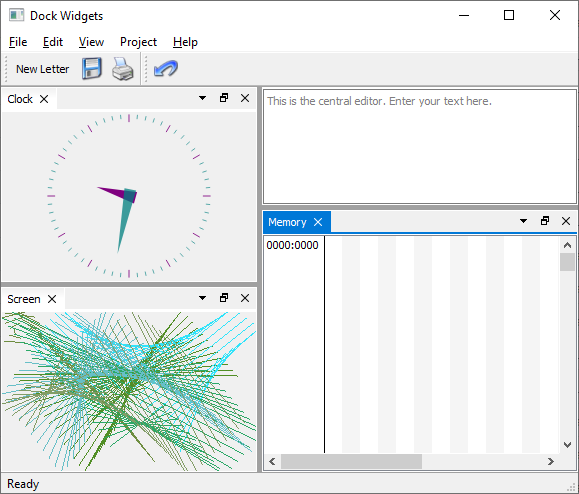
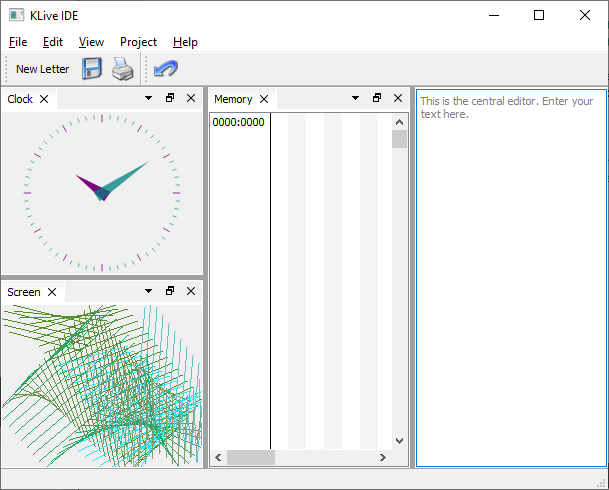
Title changed

diff --git a/resources/Klive_fr_FR.ts b/resources/Klive_fr_FR.ts
@@ -184,7 +184,7 @@
     </message>
     <message>
         <location filename="../mainwindow.cpp" line="55"/>
-        <source>Dock Widgets</source>
+        <source>KLive IDE</source>
         <translation type="unfinished"></translation>
     </message>
     <message>

diff --git a/mainwindow.cpp b/mainwindow.cpp
@@ -52,7 +52,7 @@ MainWindow::MainWindow()
 
     Handlers::initialize(this);
 
-    setWindowTitle(tr("Dock Widgets"));
+    setWindowTitle(tr("KLive IDE"));
 
     newLetter();
     setUnifiedTitleAndToolBarOnMac(true);
